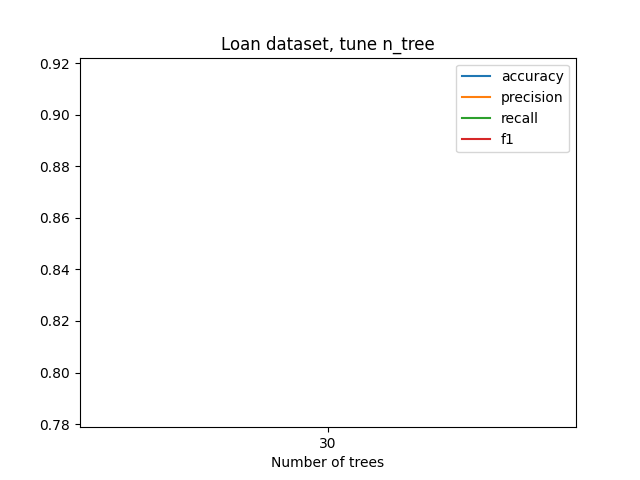
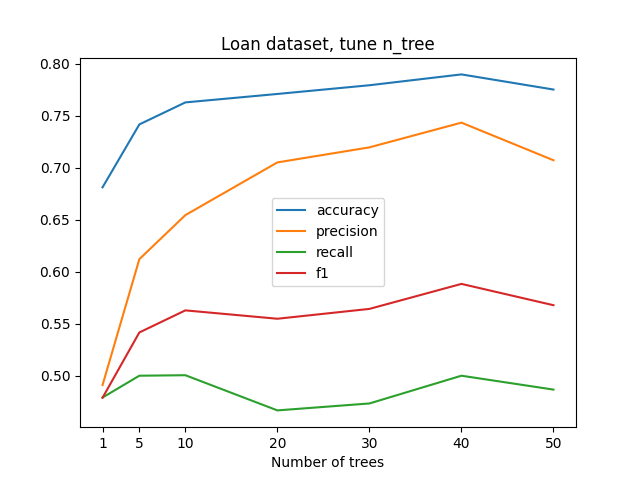
regenerate graphs

diff --git a/digits.py b/digits.py
@@ -75,7 +75,7 @@ def tune_max_depth(list_of_max_depth):
             algo="entropy",  
             random_state=42, 
             k_fold=10,
-            n_trees=20,
+            n_trees=30,
             binary_class=False, 
             bootstrap_percentage=0.9,
             debug=True
@@ -104,11 +104,11 @@ def tune_bootstrap_percentage(list_of_bootstrap_percentage):
             digits_class_col, 
             minimal_size_for_split=0.,
             minimal_gain=0.,
-            maximal_depth=12,
+            maximal_depth=11,
             algo="entropy",  
             random_state=42, 
             k_fold=10,
-            n_trees=20,
+            n_trees=30,
             binary_class=False, 
             bootstrap_percentage=n,
             debug=True
@@ -136,11 +136,11 @@ def tune_algo():
             digits_class_col, 
             minimal_size_for_split=0.,
             minimal_gain=0.,
-            maximal_depth=12,
+            maximal_depth=11,
             algo="entropy",  
             random_state=42, 
             k_fold=10,
-            n_trees=20,
+            n_trees=30,
             binary_class=False, 
             bootstrap_percentage=0.8
         )
@@ -152,7 +152,7 @@ def tune_algo():
             digits_class_col, 
             minimal_size_for_split=0.,
             minimal_gain=0.,
-            maximal_depth=12,
+            maximal_depth=11,
             algo="gini",  
             random_state=42, 
             k_fold=10,
@@ -171,11 +171,11 @@ def digits_rf_final():
             digits_class_col, 
             minimal_size_for_split=0.,
             minimal_gain=0.,
-            maximal_depth=12,
+            maximal_depth=11,
             algo="entropy",  
             random_state=42, 
             k_fold=10,
-            n_trees=20,
+            n_trees=30,
             binary_class=False, 
             bootstrap_percentage=0.8,
         )
@@ -205,7 +205,7 @@ def tune_knn_k(list_of_k):
 if __name__ == "__main__":
     # tune random forest
     list_of_n = [1, 5, 10, 20, 30, 40, 50] 
-    tune_n_tree([20])  # picked n = 20
+    # tune_n_tree(list_of_n)  # picked n = 20
     # dt.dispatch_decision_tree(digits_data, digits_attr, digits_attr_type, digits_attr_options, digits_class_col, algo="entropy", minimal_size_for_split=0., minimal_gain=0., maximal_depth=10000,random_state=42, printTree=True)
     list_of_max_depth = [8, 9, 10, 11, 12, 13] # picked max_depth = 12
     # tune_max_depth(list_of_max_depth)
@@ -214,5 +214,5 @@ if __name__ == "__main__":
     # tune_algo() # picked entropy
     # entropy: accuracy: 0.945  precision: 0.950  recall: 0.945  f1: 0.944
     # gini: accuracy: 0.924  precision: 0.931  recall: 0.924  f1: 0.923
-    # digits_rf_final()  # accuracy: 0.945  precision: 0.950  recall: 0.945  f1: 0.944
+    digits_rf_final()  # accuracy: 0.945  precision: 0.950  recall: 0.945  f1: 0.944
     # tune_knn_k(list(range(1, 20))) # picked k = 3 accuracy: 0.978  precision: 0.980  recall: 0.978  f1: 0.978

diff --git a/loan.py b/loan.py
@@ -61,4 +61,4 @@ def tune_n_tree(list_of_n):
 
 
 if (__name__) == "__main__":
-    # tune_n_tree([1, 5, 10, 20, 30, 40, 50]) # picked n-tree=30 accuracy: 0.785  precision: 0.804  recall: 0.916  f1: 0.855
+    tune_n_tree([1, 5, 10, 20, 30, 40, 50]) # picked n-tree=30 accuracy: 0.785  precision: 0.804  recall: 0.916  f1: 0.855
